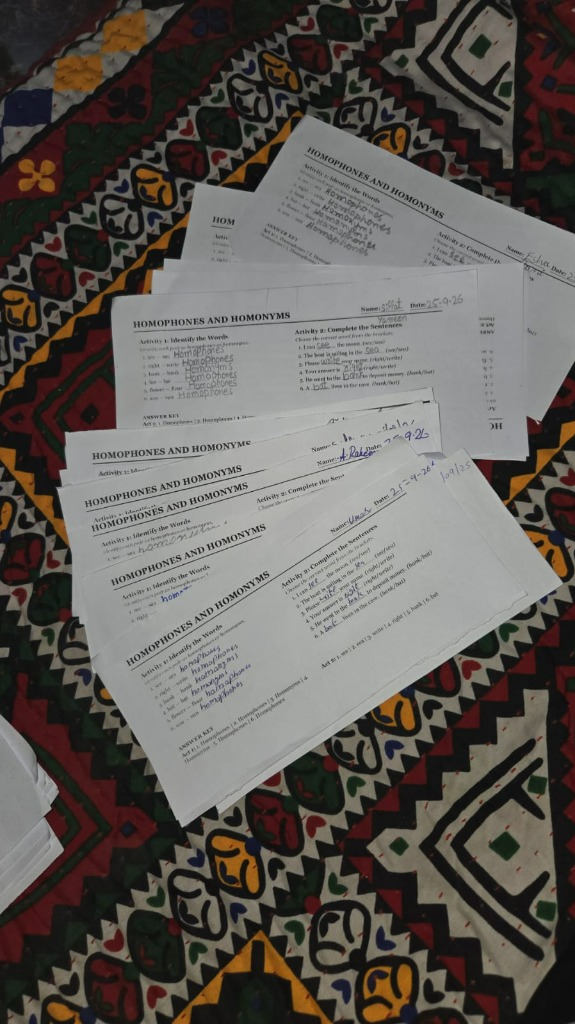
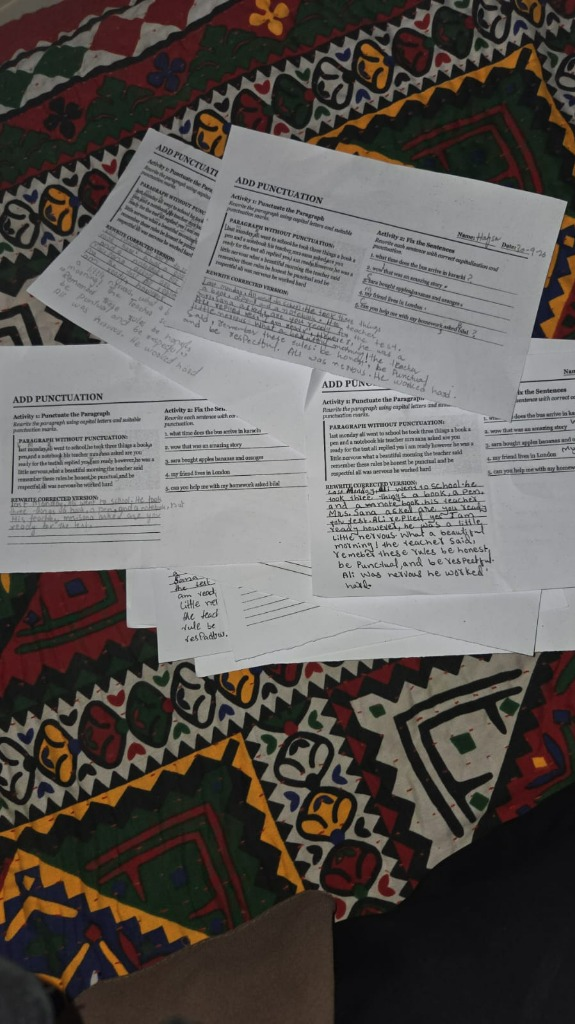
Update punctuation activity photo and change lesson plan count to 6

diff --git a/index (1).html b/index (1).html
@@ -558,7 +558,7 @@ img, svg, video, canvas {
       </div>
 
       <div class="hero-stats-row">
-        <div class="hero-stat-badge"><b>5</b><span>Lesson plans</span></div>
+        <div class="hero-stat-badge"><b>6</b><span>Lesson plans</span></div>
         <div class="hero-stat-badge"><b>38</b><span>Hours logged</span></div>
         <div class="hero-stat-badge"><b>50+</b><span>Students / class</span></div>
       </div>
@@ -604,7 +604,7 @@ img, svg, video, canvas {
 <div class="wrap">
   <div class="stats">
     <div class="stat"><b>38</b><span>Hours logged</span></div>
-    <div class="stat"><b>5</b><span>Lessons taught</span></div>
+    <div class="stat"><b>6</b><span>Lessons taught</span></div>
     <div class="stat"><b>50+</b><span>Students per class</span></div>
     <div class="stat"><b>85–90%</b><span>Students showing good understanding</span></div>
   </div>

diff --git a/index.html b/index.html
@@ -558,7 +558,7 @@ img, svg, video, canvas {
       </div>
 
       <div class="hero-stats-row">
-        <div class="hero-stat-badge"><b>5</b><span>Lesson plans</span></div>
+        <div class="hero-stat-badge"><b>6</b><span>Lesson plans</span></div>
         <div class="hero-stat-badge"><b>38</b><span>Hours logged</span></div>
         <div class="hero-stat-badge"><b>50+</b><span>Students / class</span></div>
       </div>
@@ -604,7 +604,7 @@ img, svg, video, canvas {
 <div class="wrap">
   <div class="stats">
     <div class="stat"><b>38</b><span>Hours logged</span></div>
-    <div class="stat"><b>5</b><span>Lessons taught</span></div>
+    <div class="stat"><b>6</b><span>Lessons taught</span></div>
     <div class="stat"><b>50+</b><span>Students per class</span></div>
     <div class="stat"><b>85–90%</b><span>Students showing good understanding</span></div>
   </div>
